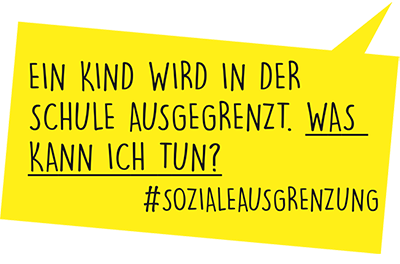
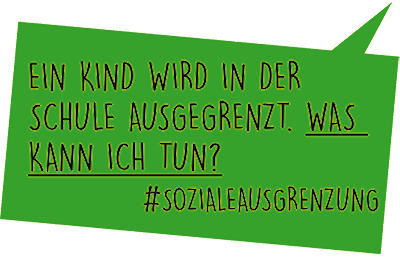
Tip_Text white bigger

diff --git a/src/App.css b/src/App.css
@@ -737,6 +737,7 @@ div {
   position: absolute;
   top: 10px;
   left: 0px;
+  filter: invert(100%) contrast(1.75);
 }
 
 .explanation {
@@ -746,13 +747,13 @@ div {
   display: flex;
   justify-content: left;
   padding: 1rem;
-  font-size: 1.7rem;
+  font-size: 2.7rem;
   font-family: 'Calibri';
   font-style: normal;
   font-weight: bold;
   src: local('DroidSans'), url('./media/fonts/DroidSans-Bold.ttf');
-  line-height: 30px;
-  color: rgb(0, 0, 0);
+  line-height: 40px;
+  color: rgb(254, 247, 237);
   overflow: hidden; /* Hide scrollbars */
   -webkit-user-select: none; /* Safari */
   -ms-user-select: none; /* IE 10 and IE 11 */
@@ -885,7 +886,7 @@ background-color: rgb(238, 115, 48);
 }
 
 .SOZIALEAUSGRENZUNG {
-  background-color: rgb(255, 239, 24);
+  background-color: rgb(54, 162, 43);
 }
 
 
